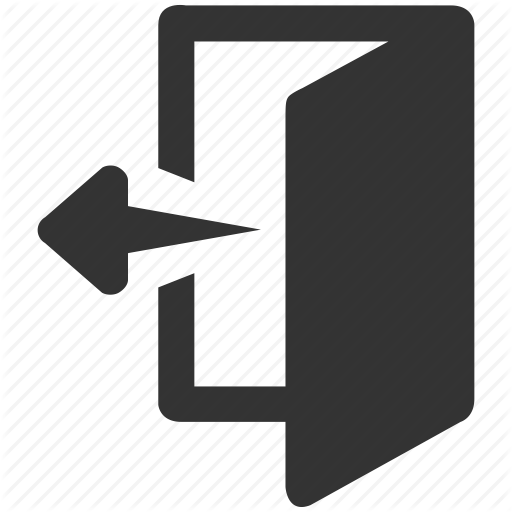
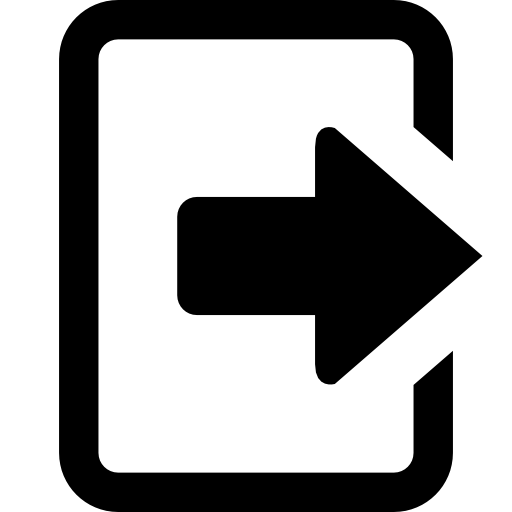
boton singoff

diff --git a/src/main/resources/com/poscinema/pos_cinema/stylesheet-view.css b/src/main/resources/com/poscinema/pos_cinema/stylesheet-view.css
@@ -1,23 +1,12 @@
 
-
-#signInButton {
+.button {
     -fx-background-color: #A60303;
-    -fx-background-radius: 10;
-    -fx-text-fill: #d9d9d9;
-    -fx-font-size: 1.5em;
-    -fx-alignment: center;
-
+        -fx-background-radius: 10;
+        -fx-font-size: 2em;
+        -fx-alignment: center;
 }
 
-#signInButton:pressed {
-    -fx-background-color: #FF0303;
-}
-
-.signoff-button {
-    -fx-background-image: url('../../../Images/signoffIcon.png');
-       -fx-background-size: contain; /* Ajusta el tamaño de la imagen para que quepa completamente dentro del botón */
-       -fx-background-repeat: no-repeat; /* Evita que la imagen se repita si es más pequeña que el botón */
-       -fx-background-position: center; /* Centra la imagen dentro del botón */
-
+.button:pressed {
+-fx-background-color: #FF0303;
 }
 

diff --git a/src/main/java/com/poscinema/pos_cinema/models/User.java b/src/main/java/com/poscinema/pos_cinema/models/User.java
@@ -1,9 +1,18 @@
 package com.poscinema.pos_cinema.models;
 
+import com.poscinema.pos_cinema.HelloApplication;
 import com.poscinema.pos_cinema.controllers.DatabaseConnection;
 import com.poscinema.pos_cinema.controllers.Encryptor;
+import com.poscinema.pos_cinema.controllers.loginController;
+import com.poscinema.pos_cinema.controllers.mainMenuController;
+import javafx.fxml.FXMLLoader;
+import javafx.scene.Parent;
+import javafx.scene.Scene;
 import javafx.scene.control.Alert;
+import javafx.scene.control.ButtonBar;
+import javafx.stage.Stage;
 
+import java.io.IOException;
 import java.sql.Connection;
 import java.sql.PreparedStatement;
 import java.sql.ResultSet;
@@ -47,6 +56,30 @@ public class User {
         }
         return false;
     }
+
+    public static void singOut() throws IOException {
+        // Cargar la nueva escena del menú principal
+        FXMLLoader loader = new FXMLLoader(HelloApplication.class.getResource("/com/poscinema/pos_cinema/login-view.fxml"));
+        Parent root = loader.load();
+
+        // Crear una nueva escena con la vista cargada
+        Scene scene = new Scene(root);
+
+        // Obtener cualquier nodo dentro del BorderPane
+        ButtonBar buttonBar = (ButtonBar) root.lookup("#buttonBar");
+
+        // Obtener el escenario actual desde el ButtonBar
+        Stage stage = (Stage) buttonBar.getScene().getWindow();
+
+        // Establecer la nueva escena en el escenario y mostrarla
+        stage.setScene(scene);
+
+        // Maximizar la ventana
+        stage.setMaximized(true);
+
+        stage.show();
+    }
+
 
     public  static  Integer getRoleId(String username) {
         Integer role = null;

diff --git a/src/main/java/com/poscinema/pos_cinema/controllers/mainMenuController.java b/src/main/java/com/poscinema/pos_cinema/controllers/mainMenuController.java
@@ -3,12 +3,13 @@ package com.poscinema.pos_cinema.controllers;
 
 import com.poscinema.pos_cinema.models.User;
 import javafx.fxml.FXML;
-import javafx.scene.control.Button;
-import javafx.scene.control.Label;
-import javafx.scene.control.MenuButton;
-import javafx.scene.control.TextField;
+import javafx.scene.Scene;
+import javafx.scene.control.*;
 import javafx.event.EventHandler;
 import javafx.scene.input.MouseEvent;
+import javafx.stage.Stage;
+
+import java.io.IOException;
 
 public class mainMenuController {
     private User user;
@@ -27,10 +28,15 @@ public class mainMenuController {
             labelusername.setText(user.getUsername());
         }
     }
+
+
+
     @FXML
-    private void handleButtonClick(MouseEvent event) {
-        // Código para manejar el evento de clic
-        System.out.println("Botón clickeado");
+    private ButtonBar buttonBar;
+
+    @FXML
+    private void handleButtonClick(MouseEvent event) throws IOException {
+        User.singOut();
     }
 
 }

diff --git a/src/main/java/com/poscinema/pos_cinema/HelloApplication.java b/src/main/java/com/poscinema/pos_cinema/HelloApplication.java
@@ -11,7 +11,7 @@ import java.io.IOException;
 public class HelloApplication extends Application {
     @Override
     public void start(Stage stage) throws IOException {
-        FXMLLoader fxmlLoader = new FXMLLoader(HelloApplication.class.getResource("hello-view.fxml"));
+        FXMLLoader fxmlLoader = new FXMLLoader(HelloApplication.class.getResource("login-view.fxml"));
         Scene scene = new Scene(fxmlLoader.load());
         stage.setTitle("POS CINEMA");
         stage.setScene(scene);

diff --git a/src/main/java/com/poscinema/pos_cinema/controllers/loginController.java b/src/main/java/com/poscinema/pos_cinema/controllers/loginController.java
@@ -43,8 +43,10 @@ public class loginController {
 
             // Maximizar la ventana
             stage.setMaximized(true);
+            stage.setFullScreen(true);
 
             stage.show();
+
         }
     }
 
